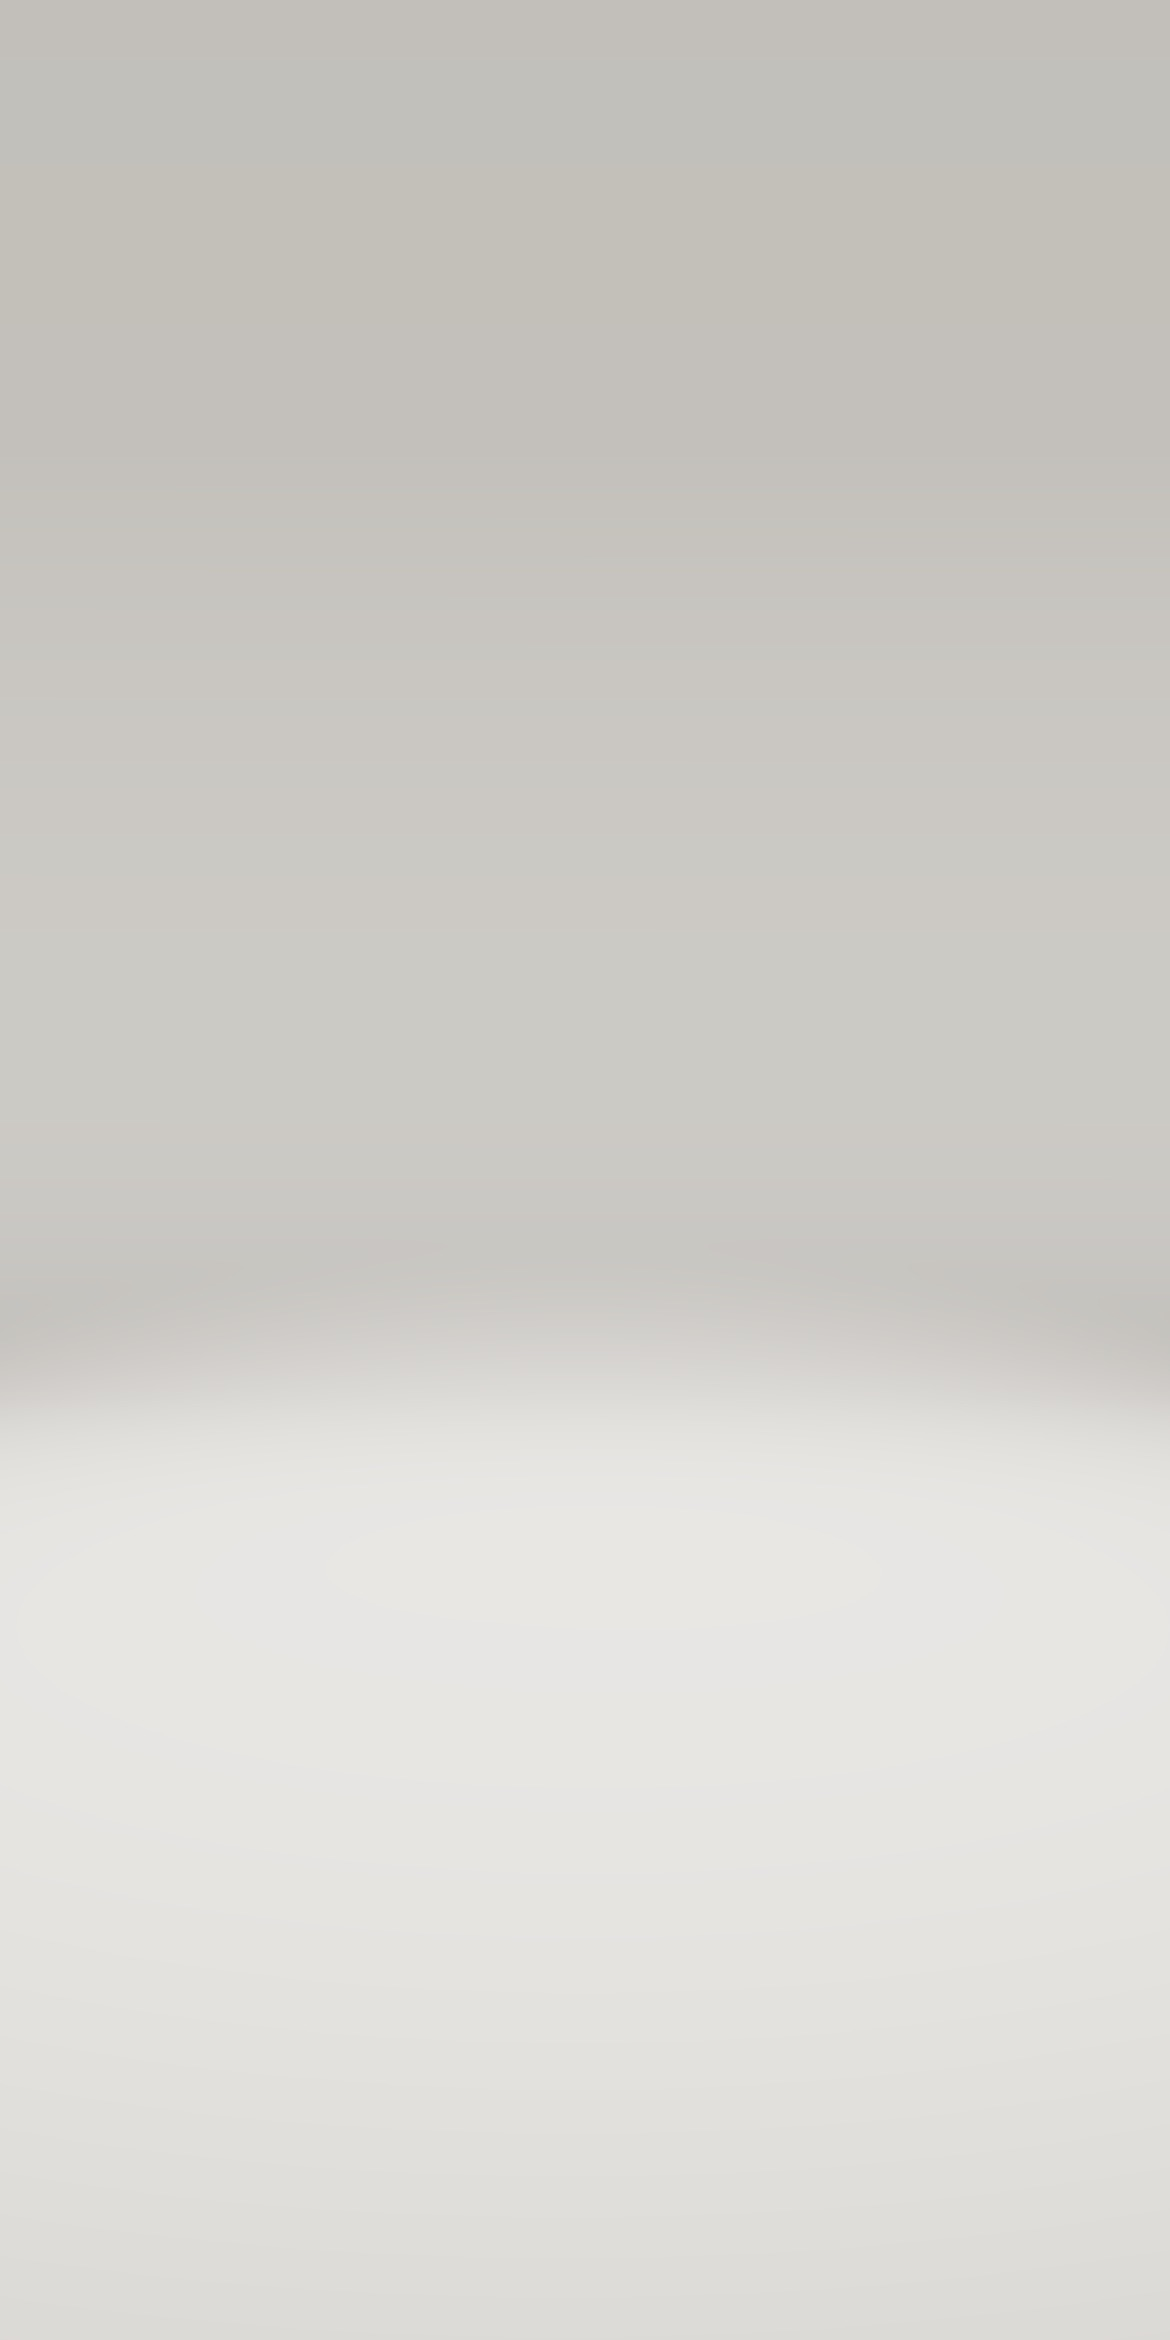
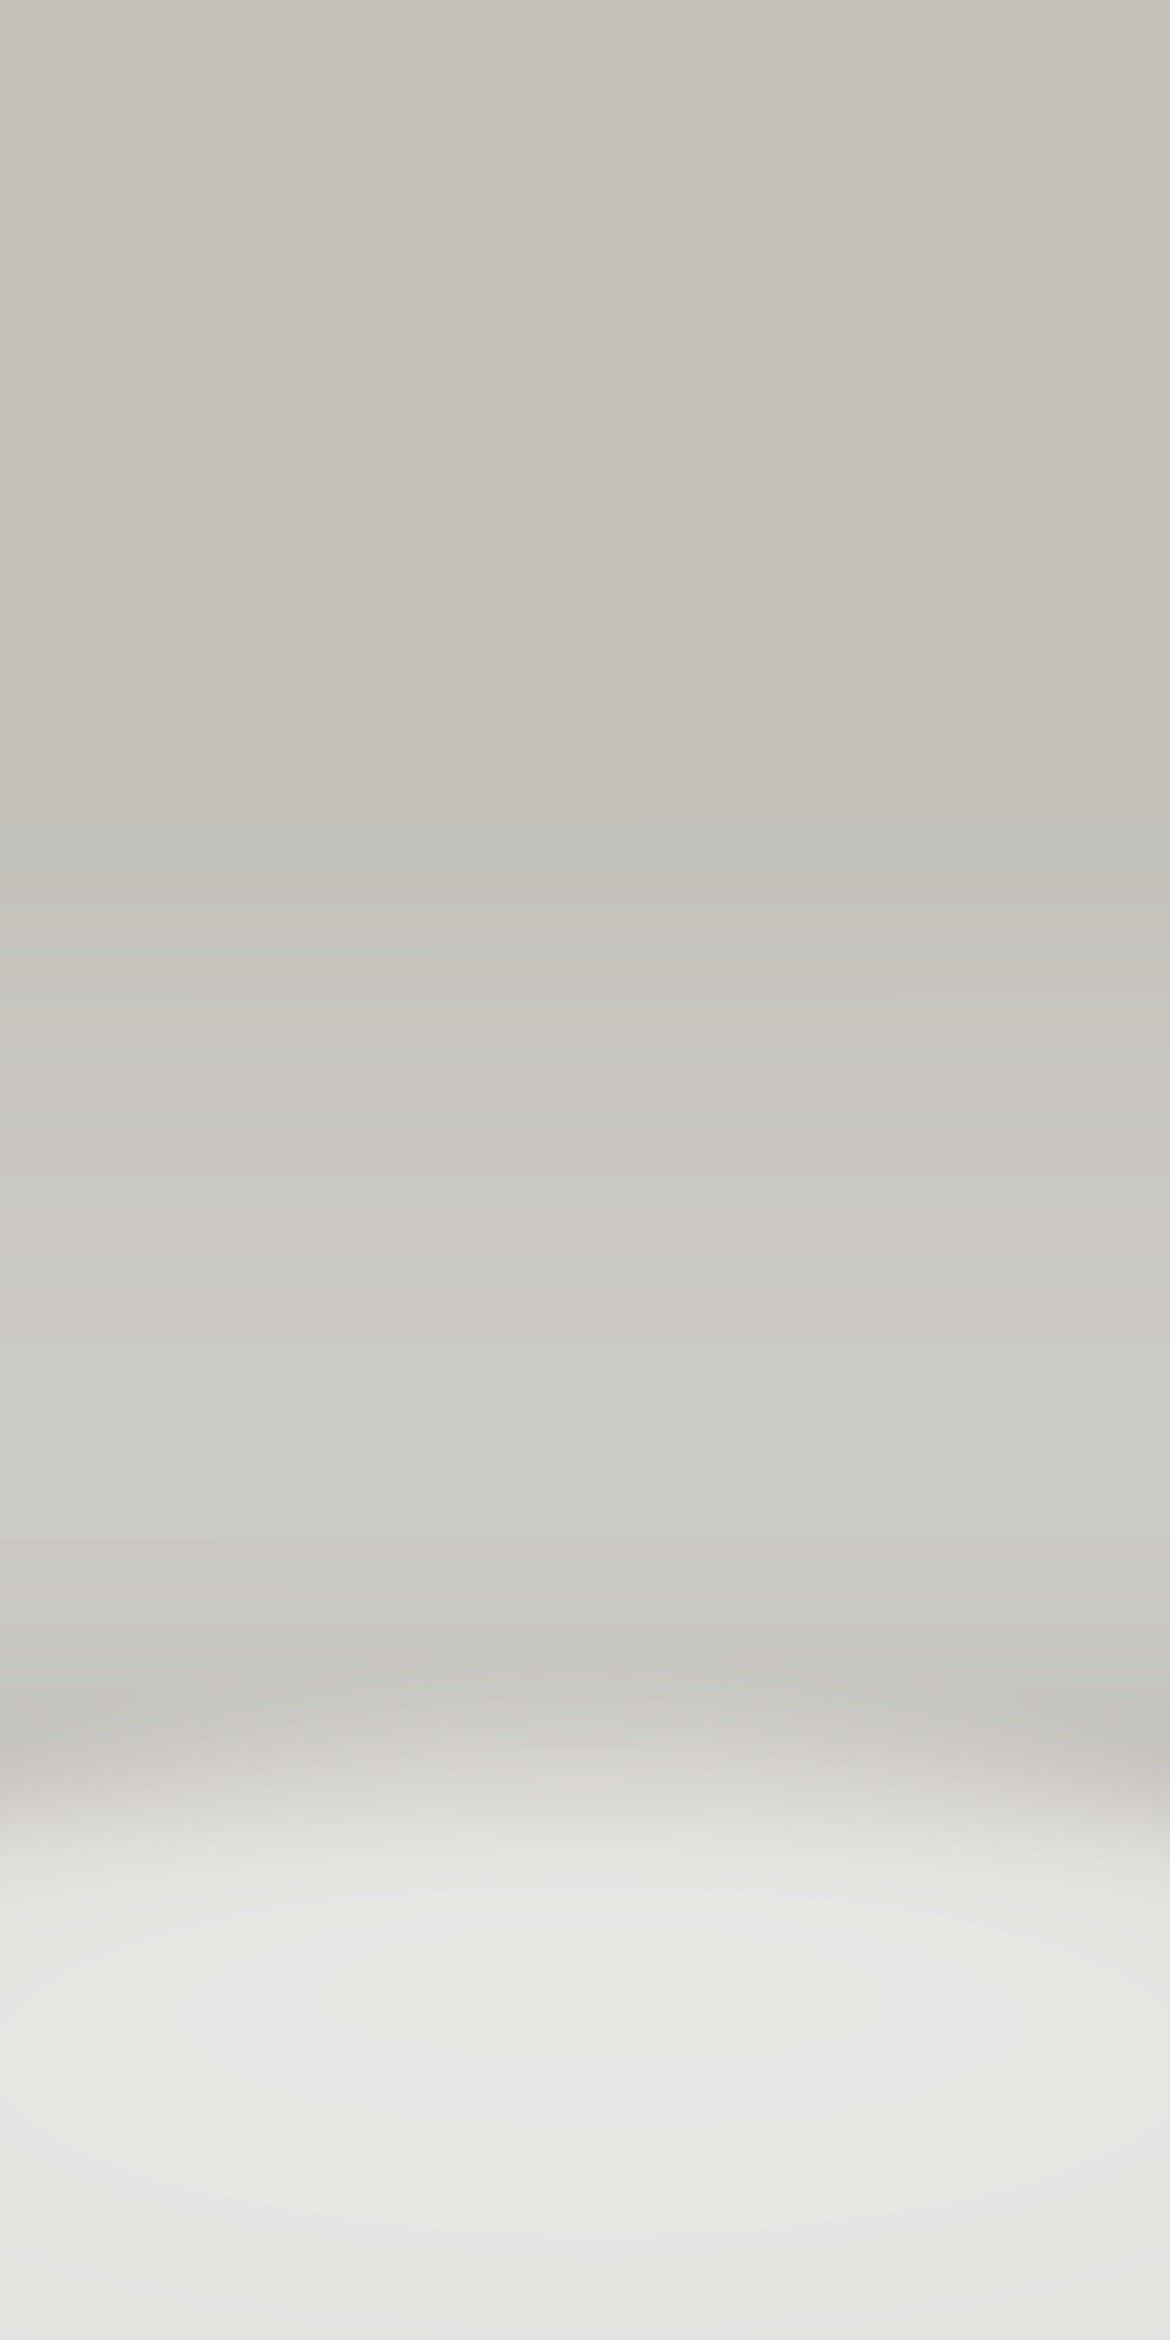
Studio floor line lowered to sit just above the footer

Changed region(s): [[0.0, 0.5927, 1.0, 0.7799]]

diff --git a/app.html b/app.html
@@ -19,10 +19,10 @@
 <meta property="og:image:height" content="630">
 <meta name="twitter:card" content="summary_large_image">
 <meta name="twitter:image" content="https://trubotshow.com/og.jpg">
-<link rel="icon" type="image/png" href="icon-96.png?v=43">
-<link rel="apple-touch-icon" href="icon-180.png?v=43">
+<link rel="icon" type="image/png" href="icon-96.png?v=44">
+<link rel="apple-touch-icon" href="icon-180.png?v=44">
 <link rel="stylesheet" href="https://cdn.jsdelivr.net/gh/orioncactus/pretendard@v1.3.9/dist/web/variable/pretendardvariable-dynamic-subset.min.css">
-<link rel="stylesheet" href="style.css?v=43">
+<link rel="stylesheet" href="style.css?v=44">
 </head>
 <body>
 <header class="site"><div class="wrap">
@@ -48,7 +48,7 @@
   </nav>
   <p class="marks">Trubot™ and Trubotshow™ are trademarks of Trubotshow. The Trubot character, this site's design and its code may not be copied or reused without permission.</p>
 </div></footer>
-<script src="apps.js?v=43"></script>
-<script src="pages.js?v=43"></script>
+<script src="apps.js?v=44"></script>
+<script src="pages.js?v=44"></script>
 </body>
 </html>

diff --git a/apps.html b/apps.html
@@ -19,10 +19,10 @@
 <meta property="og:image:height" content="630">
 <meta name="twitter:card" content="summary_large_image">
 <meta name="twitter:image" content="https://trubotshow.com/og.jpg">
-<link rel="icon" type="image/png" href="icon-96.png?v=43">
-<link rel="apple-touch-icon" href="icon-180.png?v=43">
+<link rel="icon" type="image/png" href="icon-96.png?v=44">
+<link rel="apple-touch-icon" href="icon-180.png?v=44">
 <link rel="stylesheet" href="https://cdn.jsdelivr.net/gh/orioncactus/pretendard@v1.3.9/dist/web/variable/pretendardvariable-dynamic-subset.min.css">
-<link rel="stylesheet" href="style.css?v=43">
+<link rel="stylesheet" href="style.css?v=44">
 </head>
 <body>
 <header class="site"><div class="wrap">
@@ -51,7 +51,7 @@
   </nav>
   <p class="marks">Trubot™ and Trubotshow™ are trademarks of Trubotshow. The Trubot character, this site's design and its code may not be copied or reused without permission.</p>
 </div></footer>
-<script src="apps.js?v=43"></script>
-<script src="pages.js?v=43"></script>
+<script src="apps.js?v=44"></script>
+<script src="pages.js?v=44"></script>
 </body>
 </html>

diff --git a/style.css b/style.css
@@ -14,8 +14,8 @@ a { color: inherit; text-decoration: underline; text-decoration-color: var(--lin
 a:hover { text-decoration-color: currentColor; }
 img { display: block; max-width: 100%; }
 /* the studio stays put while the words scroll over it */
-body::before { content: ""; position: fixed; inset: 0; z-index: -1; background: var(--paper) url("studio-wide.jpg") center 62% / cover no-repeat; }
-@media (max-aspect-ratio: 17/20) { body::before { background-image: url("studio-tall.jpg"); } }
+body::before { content: ""; position: fixed; inset: 0; z-index: -1; background: var(--paper) url("studio-wide.jpg?v=2") center 76% / cover no-repeat; }
+@media (max-aspect-ratio: 17/20) { body::before { background-image: url("studio-tall.jpg?v=2"); } }
 .wrap, .page { max-width: 600px; margin: 0 auto; padding: 0 24px; }
 
 /* ---------- header: the name left, the menu right ---------- */

diff --git a/index.html b/index.html
@@ -19,11 +19,11 @@
 <meta property="og:image:height" content="630">
 <meta name="twitter:card" content="summary_large_image">
 <meta name="twitter:image" content="https://trubotshow.com/og.jpg">
-<link rel="icon" type="image/png" href="icon-96.png?v=43">
-<link rel="apple-touch-icon" href="icon-180.png?v=43">
+<link rel="icon" type="image/png" href="icon-96.png?v=44">
+<link rel="apple-touch-icon" href="icon-180.png?v=44">
 <link rel="preconnect" href="https://cdn.jsdelivr.net" crossorigin>
 <link rel="stylesheet" href="https://cdn.jsdelivr.net/gh/orioncactus/pretendard@v1.3.9/dist/web/variable/pretendardvariable-dynamic-subset.min.css">
-<link rel="stylesheet" href="style.css?v=43">
+<link rel="stylesheet" href="style.css?v=44">
 </head>
 <body>
 <main class="page">

diff --git a/404.html b/404.html
@@ -18,10 +18,10 @@
 <meta property="og:image:height" content="630">
 <meta name="twitter:card" content="summary_large_image">
 <meta name="twitter:image" content="https://trubotshow.com/og.jpg">
-<link rel="icon" type="image/png" href="/icon-96.png?v=43">
-<link rel="apple-touch-icon" href="/icon-180.png?v=43">
+<link rel="icon" type="image/png" href="/icon-96.png?v=44">
+<link rel="apple-touch-icon" href="/icon-180.png?v=44">
 <link rel="stylesheet" href="https://cdn.jsdelivr.net/gh/orioncactus/pretendard@v1.3.9/dist/web/variable/pretendardvariable-dynamic-subset.min.css">
-<link rel="stylesheet" href="/style.css?v=43">
+<link rel="stylesheet" href="/style.css?v=44">
 </head>
 <body>
 <header class="site"><div class="wrap">

diff --git a/privacy.html b/privacy.html
@@ -19,10 +19,10 @@
 <meta property="og:image:height" content="630">
 <meta name="twitter:card" content="summary_large_image">
 <meta name="twitter:image" content="https://trubotshow.com/og.jpg">
-<link rel="icon" type="image/png" href="icon-96.png?v=43">
-<link rel="apple-touch-icon" href="icon-180.png?v=43">
+<link rel="icon" type="image/png" href="icon-96.png?v=44">
+<link rel="apple-touch-icon" href="icon-180.png?v=44">
 <link rel="stylesheet" href="https://cdn.jsdelivr.net/gh/orioncactus/pretendard@v1.3.9/dist/web/variable/pretendardvariable-dynamic-subset.min.css">
-<link rel="stylesheet" href="style.css?v=43">
+<link rel="stylesheet" href="style.css?v=44">
 </head>
 <body>
 <header class="site"><div class="wrap">

diff --git a/rights.html b/rights.html
@@ -19,10 +19,10 @@
 <meta property="og:image:height" content="630">
 <meta name="twitter:card" content="summary_large_image">
 <meta name="twitter:image" content="https://trubotshow.com/og.jpg">
-<link rel="icon" type="image/png" href="icon-96.png?v=43">
-<link rel="apple-touch-icon" href="icon-180.png?v=43">
+<link rel="icon" type="image/png" href="icon-96.png?v=44">
+<link rel="apple-touch-icon" href="icon-180.png?v=44">
 <link rel="stylesheet" href="https://cdn.jsdelivr.net/gh/orioncactus/pretendard@v1.3.9/dist/web/variable/pretendardvariable-dynamic-subset.min.css">
-<link rel="stylesheet" href="style.css?v=43">
+<link rel="stylesheet" href="style.css?v=44">
 </head>
 <body>
 <header class="site"><div class="wrap">

diff --git a/support.html b/support.html
@@ -19,10 +19,10 @@
 <meta property="og:image:height" content="630">
 <meta name="twitter:card" content="summary_large_image">
 <meta name="twitter:image" content="https://trubotshow.com/og.jpg">
-<link rel="icon" type="image/png" href="icon-96.png?v=43">
-<link rel="apple-touch-icon" href="icon-180.png?v=43">
+<link rel="icon" type="image/png" href="icon-96.png?v=44">
+<link rel="apple-touch-icon" href="icon-180.png?v=44">
 <link rel="stylesheet" href="https://cdn.jsdelivr.net/gh/orioncactus/pretendard@v1.3.9/dist/web/variable/pretendardvariable-dynamic-subset.min.css">
-<link rel="stylesheet" href="style.css?v=43">
+<link rel="stylesheet" href="style.css?v=44">
 </head>
 <body>
 <header class="site"><div class="wrap">
